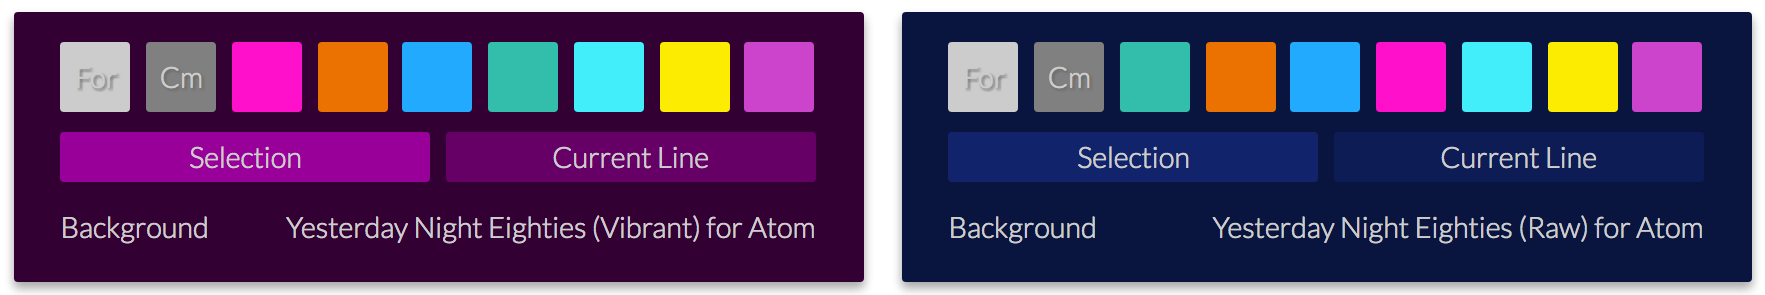
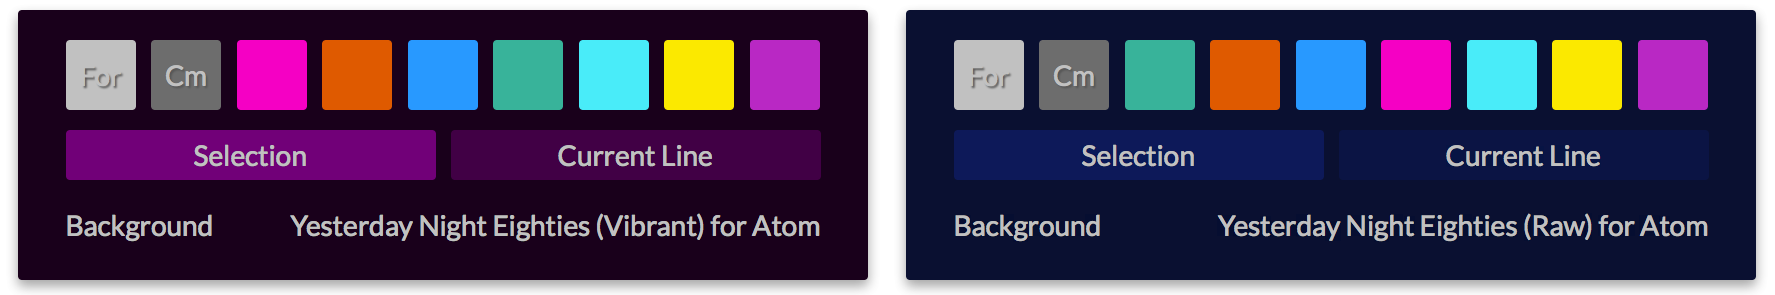
darken Vibrant background

diff --git a/_colors_base.less b/_colors_base.less
@@ -4,7 +4,7 @@
 @comment_neutral: #808080;
 
 // Vibrant Theme
-@background_vibrant: #2B002B; // 330033 - 331144 - 2D162D - 221122 - 0A153F
+@background_vibrant: #230023;
 @foreground_vibrant: #cccccc;
 @1v___: #ff11cc; //
 @2v___: #eb7100; //
